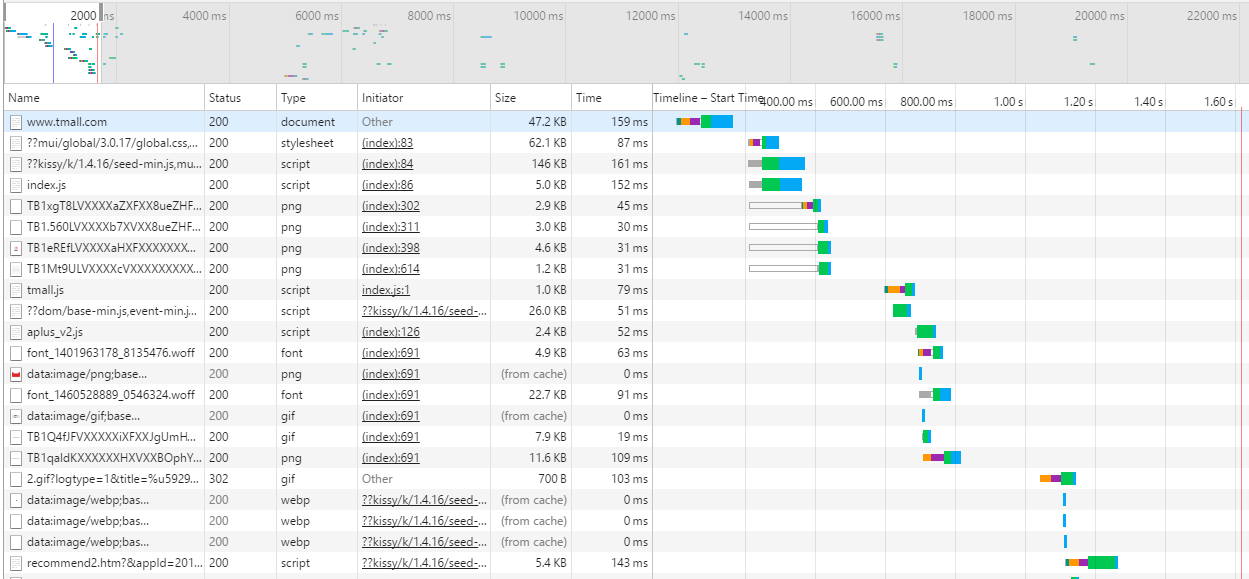
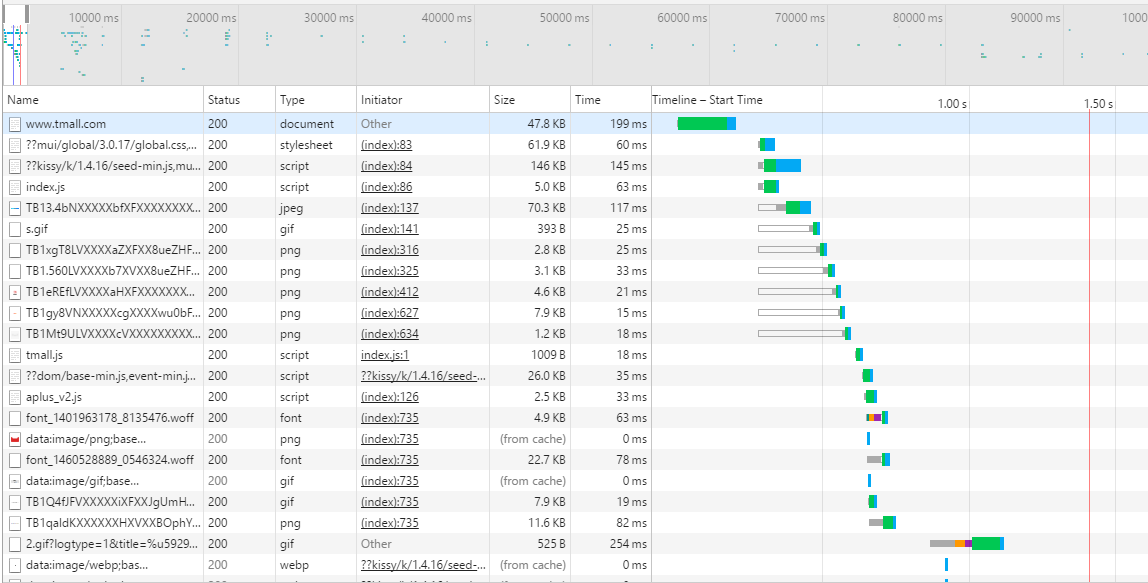
前端重要性篇完工

diff --git a/_posts/2016-09-06-performance-front-end.md b/_posts/2016-09-06-performance-front-end.md
@@ -12,3 +12,25 @@ icon: icon-phone-gap
 ### 用户响应时间花在哪里了？###
 事实上，在绝大部分的网站中用户操作的响应时间10\~20%消耗在web服务端，80\~90%消耗在从web服务器获取HTML文档并传送到浏览器。为了研究这一点，我们拿个网站实战分析一下。我随机抽取Alexa国内排名前十网站中的天猫首页来说明。
 ![](http://i.imgur.com/XukiIC9.png)
+
+从图中可以看中www.tmall.com的document从发起请求、等待响应、到下载完成只用了不到200ms（更加准确的说，我通过工具估算大概是171ms）。红线位置是页面内容请求完毕的时间，所有资源包括document，请求document中的样式表单，脚本，图片，字体等等资源的加载时间以及脚本的解析时间和样式的渲染时间不到1500ms（同样，更加准确的说是1416ms）。现在我们可以计算出document的下载时间占了总体下载时间的12%。
+
+这只是未缓存的情况。浏览器在第一次访问页面时，会缓存样式表单，脚本，图片，字体等资源，在下次访问请求web服务器的这些资源时会判断是否有修改，如果没有则从缓存中读取，这样会节省资源下载的时间。Tips：这就是我们通常在访问网站加载很久，加载出来时页面“畸形”，刷新一下往往页面就正常打开了，因为第一次缓存了一部分内容，下次就少下载了很多资源。
+
+我们来看看缓存后页面响应情况
+![](http://i.imgur.com/RVD9W2T.png)
+同样，用上面的计算方法我们可以得出document下载的时间占总体下载时间的30%；
+
+图中status为304的就是请求web服务器得到的未修改的资源。有一部分内容虽然缓存了，但是仍然从web服务器获取，如图中的脚本和样式表单，因为他是带条件的http请求，部分gif和png图片，往往是广告和新闻图片，他们要实时性要求高，做了特殊处理，时时获取，被缓存了怎么行呢？。
+
+另外，我们可以看到很多请求都是并发的请求，js除外，因为js请求是阻塞的。index.js、tmall.js、aplus_v2.js在加载后有一大段空白，这就是解析他们所用的时间。我们看不出服务端占用了太长时间。
+可以看出，网站下载的时间大部分用在了document中的组件和资源的下载上。
+
+不仅仅是天猫网站日如此，Alexa排名前十的国内网站都能印证这个结论。
+
+### 前端性能优化的重要性 ###
+1. 后端响应时间占整体响应时间的10%~20%左右，前端响应的时间占80%~90%。优化前端性能给整体带来的效益更高。
+2. 后端优化成本高，前端优化成本低。后端优化往往是sql上的性能精简，代码重构性能优化，架构上的调整，如此，难度往往很大，投入的时间精力也很多，但是给整体响应带来的效益不高，就算做到极限，也只能提高10%~20%的响应速度。前端需要改动量少，压缩资源，减少http请求等等，带来的效益很高，假如提高一半就能提高40%~45%的响应速度。 
+4. 前端性能调整已被证明是可行的。转自Nate Koechley。
+
+我也在研究和学习中，如果有错误欢迎纠正，可反馈至我的邮箱yitalalww@gmail.com
